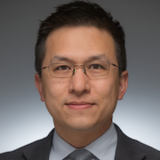
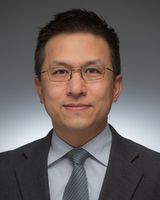
update ta pics

diff --git a/www/index.html b/www/index.html
@@ -110,20 +110,20 @@
         <div class="column">
           <img class="photo" src="images/chiang.png"><br>
           Instructor<br>
-          <a href="http://www.nd.edu/~dchiang">David Chiang</a><br>
+          <a href="https://www.nd.edu/~dchiang">David Chiang</a><br>
           dchiang@nd.edu<br>
         </div>
 
         <div class="column">
-          <img class="photo" src="images/riley.png"><br>
+          <img class="photo" src="images/riley.jpg"><br>
           Graduate TA<br>
           Darcey Riley
         </div>
 
         <div class="column">
-          <img class="photo" src="images/song.png"><br>
+          <img class="photo" src="images/song.jpg"><br>
           Undergraduate TA<br>
-          Chan Hee Song
+          <a href="https://chanh.ee/">Chan Hee Song</a>
         </div>
 
       </div> <!-- columns -->
